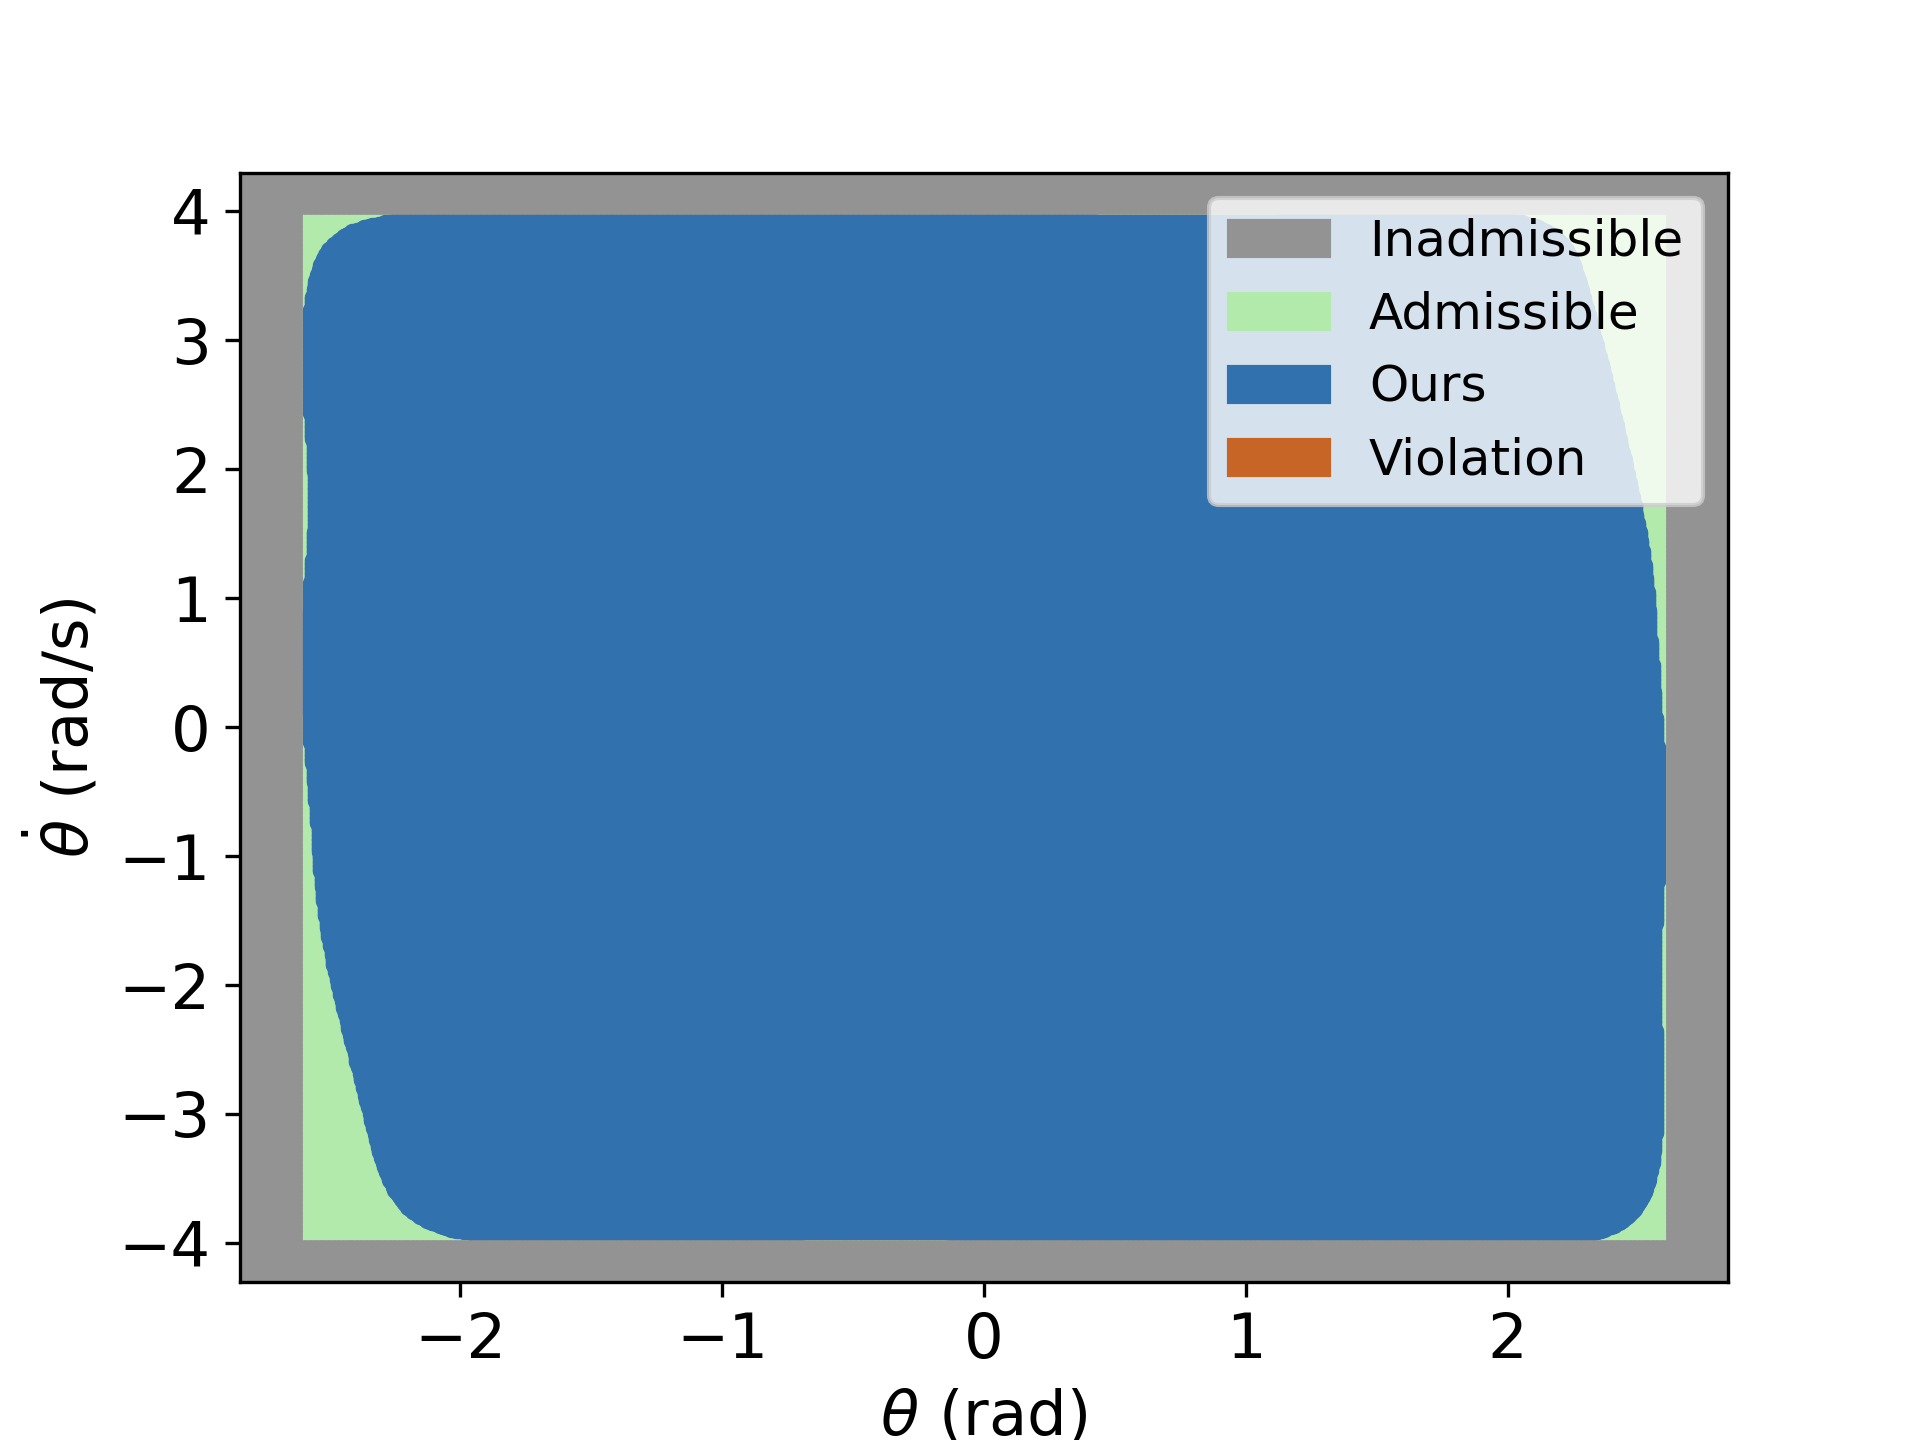
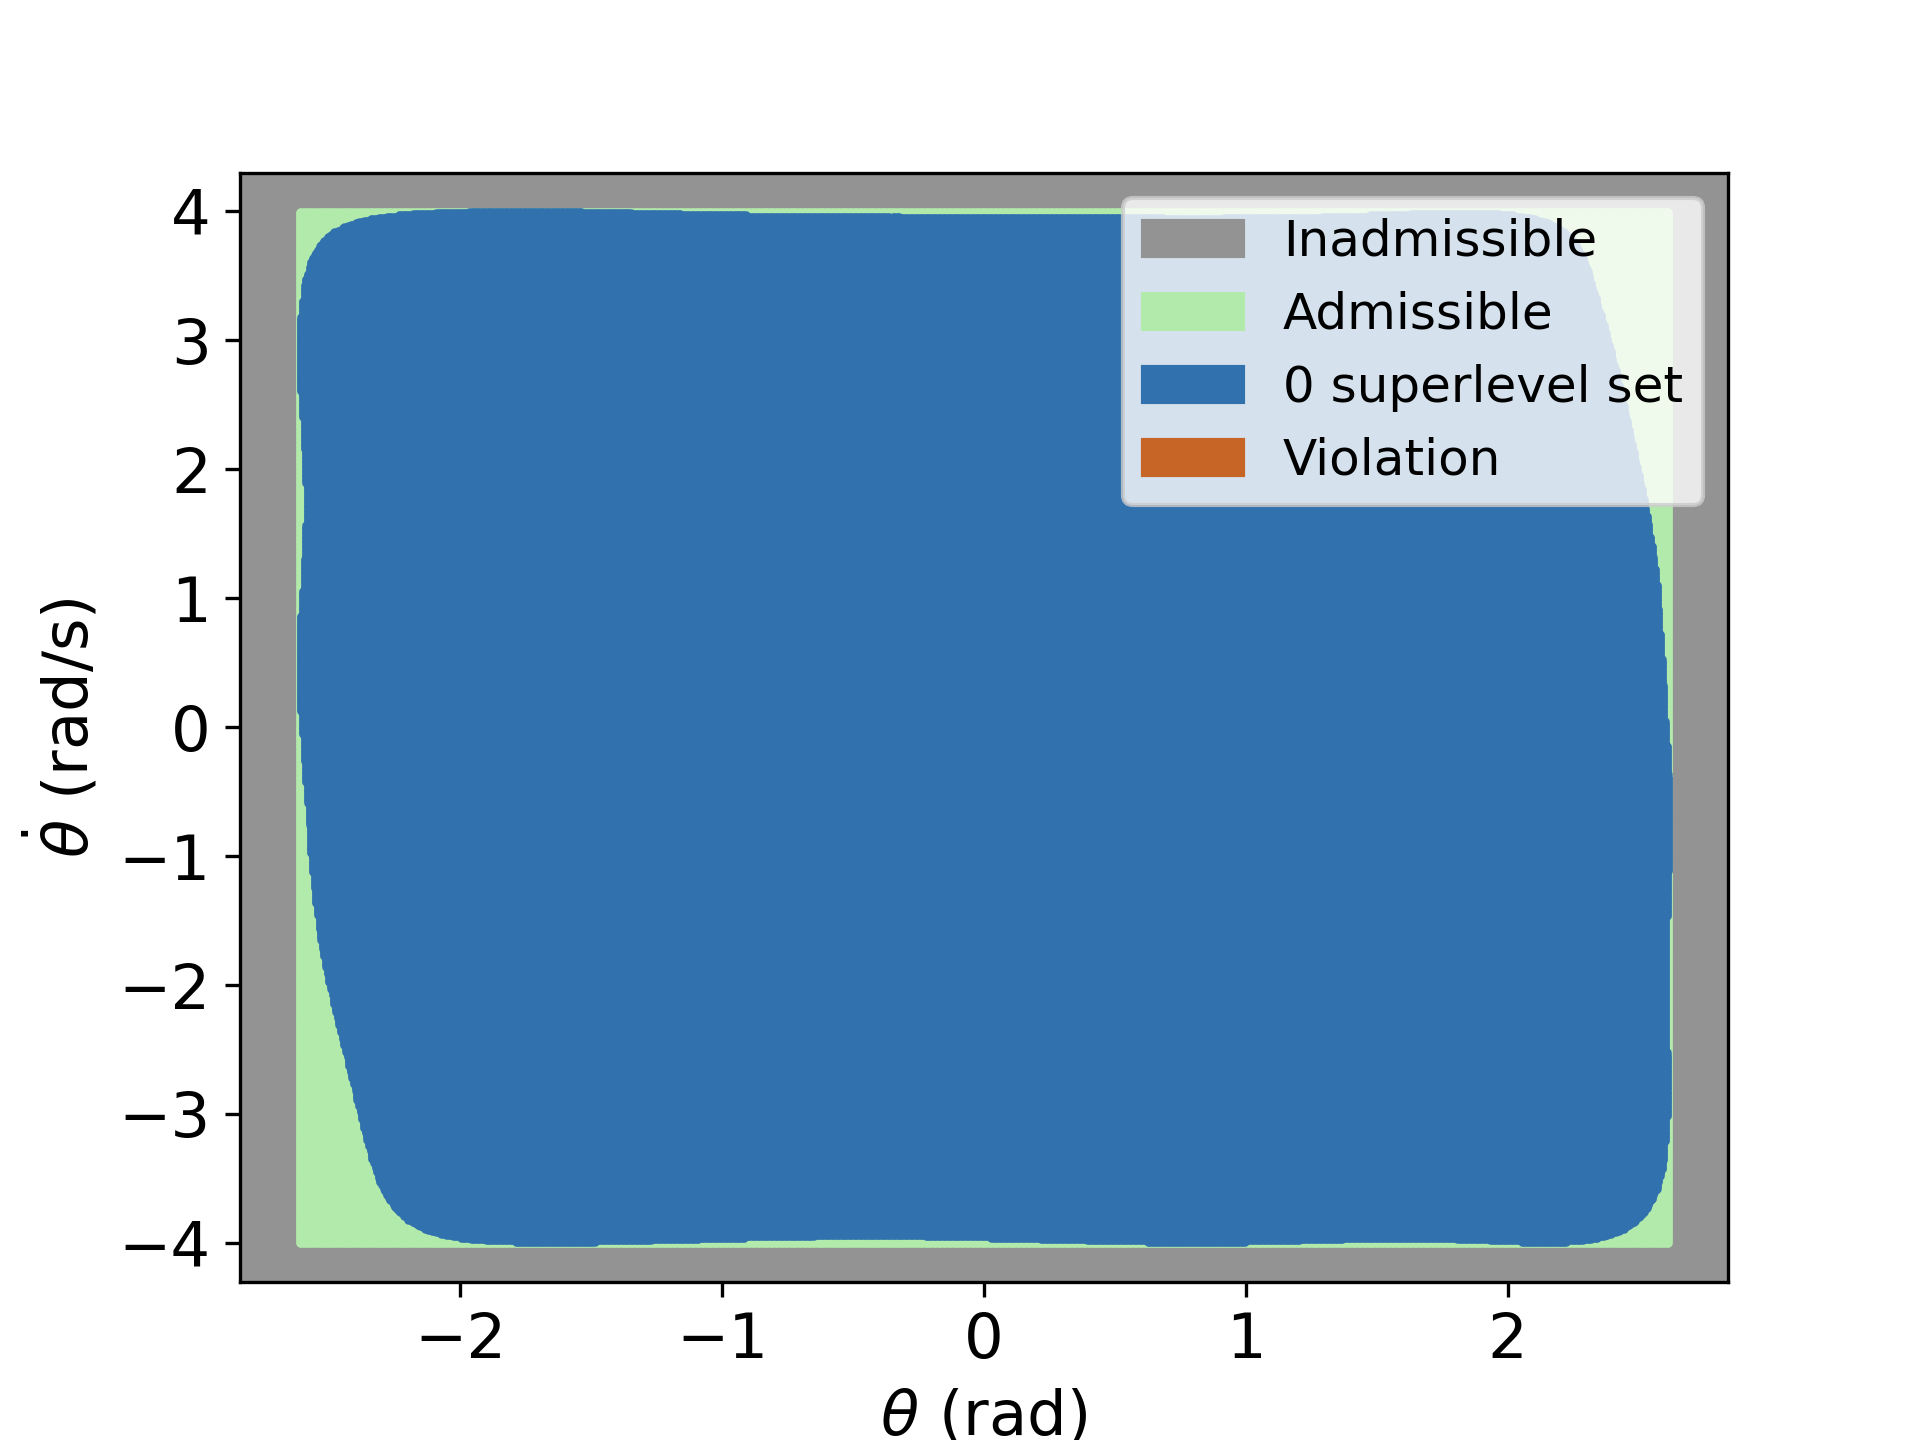
generate Figs for submittion

diff --git a/safe_rl_cbf/NeuralCBF/train_model.py b/safe_rl_cbf/NeuralCBF/train_model.py
@@ -23,11 +23,11 @@ def extract_number(f):
 
 ########################### hyperparameters #############################
 
-train_mode = 0
+train_mode = 2
 system = point_robot
-default_root_dir = "logs/CBF_logs/test/"
-checkpoint_dir = "logs/CBF_logs/IP_2_1/lightning_logs/version_1/checkpoints/epoch=67-step=5576.ckpt"
-grid_gap = torch.Tensor([0.2, 0.2])  
+default_root_dir = "logs/CBF_logs/PR_2_Nov/"
+checkpoint_dir = "logs/CBF_logs/PR_2_Nov/lightning_logs/version_0/checkpoints/epoch=199-step=32600.ckpt"
+grid_gap = torch.Tensor([0.2, 0.2, 0.2, 0.2])  
 
 
 ########################## start training ###############################
@@ -38,7 +38,7 @@ print('Using {} device'.format(device))
 # checkpoint_callback = ModelCheckpoint(dirpath=default_root_dir, save_top_k=1, monitor="Total_loss/train")
 if train_mode==0:
 
-    data_module = TrainingDataModule(system=system, val_split=0, train_batch_size=1024, training_points_num=int(1e6), train_mode=train_mode)
+    data_module = TrainingDataModule(system=system, val_split=0, train_batch_size=1024, training_points_num=int(2e6), train_mode=train_mode)
 
     NN = NeuralNetwork(dynamic_system=system, data_module=data_module, train_mode=train_mode)
     # NN0 =  NeuralNetwork.load_from_checkpoint("logs/CBF_logs/dubins_car_acc/lightning_logs/version_1/checkpoints/epoch=86-step=14181.ckpt",dynamic_system=system, data_module=data_module, require_grad_descent_loss=True, primal_learning_rate=8e-4, fine_tune=fine_tune)
@@ -64,11 +64,11 @@ if train_mode==0:
 
 elif train_mode==1:
         
-    data_module = TrainingDataModule(system=system, val_split=0, train_batch_size=1024, training_points_num=int(1e6), train_mode=train_mode)
+    data_module = TrainingDataModule(system=system, val_split=0, train_batch_size=1024, training_points_num=int(1e5), train_mode=train_mode)
 
     # NN0 =  NeuralNetwork.load_from_checkpoint(checkpoint_dir,dynamic_system=system, data_module=data_module, train_mode=train_mode)
-    NN = NeuralNetwork.load_from_checkpoint(checkpoint_dir,dynamic_system=system, data_module=data_module, train_mode=train_mode, primal_learning_rate=5e-4)
-    # NN = NeuralNetwork(dynamic_system=system, data_module=data_module, train_mode=train_mode, primal_learning_rate=1e-3)
+    # NN = NeuralNetwork.load_from_checkpoint(checkpoint_dir,dynamic_system=system, data_module=data_module, train_mode=train_mode, primal_learning_rate=5e-4)
+    NN = NeuralNetwork(dynamic_system=system, data_module=data_module, train_mode=train_mode, primal_learning_rate=1e-3)
 
     # NN.set_previous_cbf(NN0.h)
 
@@ -89,7 +89,7 @@ elif train_mode==1:
     
 elif train_mode==2:
      
-    data_module = TrainingDataModule(system=system, val_split=0, train_batch_size=1024, training_points_num=int(1e5), train_mode=1, training_grid_gap=None)
+    data_module = TrainingDataModule(system=system, val_split=0, train_batch_size=256, training_points_num=int(1e6), train_mode=1, training_grid_gap=None)
 
     # NN0 =  NeuralNetwork.load_from_checkpoint(checkpoint_dir,dynamic_system=system, data_module=data_module, train_mode=1)
     NN = NeuralNetwork.load_from_checkpoint(checkpoint_dir,dynamic_system=system, data_module=data_module, train_mode=1, parimal_learning_rate=2e-5)
@@ -104,12 +104,12 @@ elif train_mode==2:
         # callbacks=[StochasticWeightAveraging(swa_lrs=1e-2)],
         default_root_dir=default_root_dir,
         reload_dataloaders_every_n_epochs=1000,
-        accumulate_grad_batches=12,
+        accumulate_grad_batches=24,
         # gradient_clip_val=0.5
         )
 
     torch.autograd.set_detect_anomaly(True)
-    # trainer.fit(NN)
+    trainer.fit(NN)
     
     current_learning_rate = NN.learning_rate
     del NN, trainer
@@ -171,7 +171,7 @@ elif train_mode==2:
         data_module.training_grid_gap = None
         data_module.augment_dataset()
         num_of_augment_data = data_module.augment_data.shape[0]
-        data_module.training_points_num = max( int(num_of_augment_data * 0.75), int(1e5) )
+        
 
         log_dir = default_root_dir + "/lightning_logs"
         version_list = os.listdir(log_dir)
@@ -193,7 +193,7 @@ elif train_mode==2:
             # callbacks=[StochasticWeightAveraging(swa_lrs=1e-2)],
             default_root_dir=default_root_dir,
             reload_dataloaders_every_n_epochs=1000,
-            accumulate_grad_batches=12,
+            accumulate_grad_batches=24,
             # gradient_clip_val=0.5
             )
 

diff --git a/safe_rl_cbf/Analysis/prove_continuous_satisfaction.py b/safe_rl_cbf/Analysis/prove_continuous_satisfaction.py
@@ -148,8 +148,7 @@ plt.scatter(X_inadmissible_area, Y_inadmissible_area, s=1, c='#939393')
 
 X_admissible_area = admissible_area_state_ncbf[:, x_index].detach().cpu().numpy()
 Y_admissible_area = admissible_area_state_ncbf[:, y_index].detach().cpu().numpy()
-plt.scatter(X_admissible_area, Y_admissible_area, s=1, c='#B2EAAB')
-
+plt.scatter(X_admissible_area, Y_admissible_area, s=1.2, c='#B2EAAB')
 
 plt.scatter(x_ncbf_1, y_ncbf_1, s=10, c='#3171AD')
 plt.scatter(X_descent_ncbf_1, Y_descent_ncbf_1, s=10, c='#C66526')
@@ -173,7 +172,7 @@ legend_elements = [
                     Patch(facecolor='#B2EAAB', edgecolor='#B2EAAB',
                         label='Admissible'),
                     Patch(facecolor='#3171AD', edgecolor='#3171AD',
-                        label='Ours'),
+                        label='0 superlevel set'),
                     Patch(facecolor='#C66526', edgecolor='#C66526',
                     label='Violation')
                 ]
@@ -203,13 +202,13 @@ plt.scatter(X_admissible_area, Y_admissible_area, s=1, c='#B2EAAB')
 # contours = plt.contourf(hVS_XData, hVS_YData, hVS_ZData, levels=[-0.1, 0, 1], colors=['w','#a7f790','w'], extend='both')
 
 
-plt.scatter(x_ncbf, y_ncbf, s=10, c='#3171AD')
+plt.scatter(x_ncbf, y_ncbf, s=1, c='#3171AD')
 # plt.scatter(X_descent_ncbf, Y_descent_ncbf, s=10, c='#C66526')
 
 
 X = inadmissible_boundary_state_ncbf[:, x_index].detach().cpu().numpy()
 Y = inadmissible_boundary_state_ncbf[:, y_index].detach().cpu().numpy()
-plt.scatter(X, Y, s=1, c='#939393')
+# plt.scatter(X, Y, s=1, c='#939393')
 
 plt.xlabel(r"$\theta$ (rad)", fontsize="15")
 plt.ylabel(r"$\dot{\theta}$ (rad/s)", fontsize="15")
@@ -227,7 +226,7 @@ legend_elements = [
                     Patch(facecolor='#B2EAAB', edgecolor='#B2EAAB',
                         label='Admissible'),
                     Patch(facecolor='#3171AD', edgecolor='#3171AD',
-                        label='Ours'),
+                        label='0 superlevel set'),
                     Patch(facecolor='#C66526', edgecolor='#C66526',
                     label='Violation')
                 ]
@@ -246,7 +245,7 @@ plt.figure()
 
 X_admissible_area = admissible_area_state_ncbf[:, x_index].detach().cpu().numpy()
 Y_admissible_area = admissible_area_state_ncbf[:, y_index].detach().cpu().numpy()
-plt.scatter(X_admissible_area, Y_admissible_area, s=1, c='#B2EAAB')
+plt.scatter(X_admissible_area, Y_admissible_area, s=1.2, c='#B2EAAB')
 
 
 
@@ -286,7 +285,7 @@ legend_elements = [
                     Patch(facecolor='#B2EAAB', edgecolor='#B2EAAB',
                         label='Admissible'),
                     Patch(facecolor='#3171AD', edgecolor='#3171AD',
-                        label='Ours'),
+                        label='0 superlevel set'),
                     Line2D([], [], color='#000000', marker='.', linestyle='None',
                           markersize=5, label='Counterexamples')
                 ]

diff --git a/safe_rl_cbf/Dataset/TrainingDataModule.py b/safe_rl_cbf/Dataset/TrainingDataModule.py
@@ -10,6 +10,7 @@ from treelib import Tree, Node
 import matplotlib.pyplot as plt
 # from dreal import *
 import timeit 
+import math
 # from safe_rl_cbf.NeuralLC.Functions import *
 
 class TrainingDataModule(pl.LightningDataModule):
@@ -34,7 +35,7 @@ class TrainingDataModule(pl.LightningDataModule):
         self.minimum_grid_gap = 0.05
         self.verified = -1
         self.augment_data = torch.zeros(1, self.system.ns)
-        self.maximum_augment_data_num = int(5e6)
+        self.maximum_augment_data_num = int(7e6)
        
         self.model = None
         self.SMT_verification_time = 0
@@ -283,9 +284,17 @@ class TrainingDataModule(pl.LightningDataModule):
         if self.train_mode == 1:
             domain_lower_bd, domain_upper_bd = self.system.domain_limits
             domain_bd_gap = domain_upper_bd - domain_lower_bd
+            
+            if self.augment_data.shape[0] < 1e5:
+                self.augment_data = self.augment_data.repeat(math.ceil(1e5/0.75/self.augment_data.shape[0]), 1)
 
+          
+
+            self.training_points_num = max( int(self.augment_data.shape[0] * 0.75), int(1e5) )
+            
             s = torch.rand(self.training_points_num, self.system.ns) * domain_bd_gap + domain_lower_bd
-           
+
+            
             if self.augment_data.shape[0] > self.maximum_augment_data_num:
                 self.augment_data = self.augment_data[-self.maximum_augment_data_num:]
 
@@ -313,7 +322,7 @@ class TrainingDataModule(pl.LightningDataModule):
             if reach_minimum_gap:
                 print("all hyperrectangles reach the minimum grid gap")
                 self.verified = 0
-                self.minimum_grid_gap = max(self.minimum_grid_gap * 0.8, 0.005)
+                self.minimum_grid_gap = max(self.minimum_grid_gap * 0.8, 0.03)
                 print("minimum grid gap is updated to be ", self.minimum_grid_gap)
             
             if test_flag:

diff --git a/safe_rl_cbf/NeuralCBF/test.py b/safe_rl_cbf/NeuralCBF/test.py
@@ -17,7 +17,7 @@ print(f"Using {device} device")
 
 ########################### hyperparameters #############################
 
-train_mode = 2
+train_mode = 1
 system = inverted_pendulum_1
 default_root_dir = "./logs/CBF_logs/inverted_pendulum_1"
 checkpoint_dir = "logs/CBF_logs/inverted_pendulum_1/lightning_logs/version_8/checkpoints/epoch=199-step=2436.ckpt"
@@ -26,14 +26,14 @@ grid_gap = torch.Tensor([0.2, 0.2])
 
 ########################################################
 
-data_module = TrainingDataModule(system=system, val_split=0, train_batch_size=3, training_points_num=int(1e6), training_grid_gap=grid_gap, train_mode=train_mode)
+data_module = TrainingDataModule(system=system, val_split=0, train_batch_size=1024, training_points_num=int(1e6), train_mode=train_mode)
 data_module.prepare_data()
 data_module.set_dataset()
 
-NN = NeuralNetwork.load_from_checkpoint(checkpoint_dir, dynamic_system=system, data_module=data_module, train_mode=train_mode)
-NN0 = NeuralNetwork.load_from_checkpoint(checkpoint_dir, dynamic_system=system, data_module=data_module, train_mode=train_mode)
-# NN = NeuralNetwork(dynamic_system=inverted_pendulum_1, data_module=data_module, require_grad_descent_loss=True, fine_tune=False)
-NN.set_previous_cbf(NN0.h)
+# NN = NeuralNetwork.load_from_checkpoint(checkpoint_dir, dynamic_system=system, data_module=data_module, train_mode=train_mode)
+# NN0 = NeuralNetwork.load_from_checkpoint(checkpoint_dir, dynamic_system=system, data_module=data_module, train_mode=train_mode)
+NN = NeuralNetwork(dynamic_system=inverted_pendulum_1, data_module=data_module, train_mode=train_mode)
+# NN.set_previous_cbf(NN0.h)
 
 batch = next(iter(NN.data_module.train_dataloader()))
 

diff --git a/safe_rl_cbf/Analysis/prove_optimality.py b/safe_rl_cbf/Analysis/prove_optimality.py
@@ -157,8 +157,8 @@ plt.scatter(LST_x, LST_y, s=1, c='#F0B2E1')
 # contours2 = plt.contour(hVS0_XData, hVS0_YData, hVS0_ZData, levels=[0], colors='grey', linewidth=5)
 
 
-plt.scatter(x_ncbf, y_ncbf, s=10, c='#3171AD')
-plt.scatter(x_neural_clbf, y_neural_clbf, s=10, c='#EAE159')
+plt.scatter(x_ncbf, y_ncbf, s=1, c='#3171AD')
+plt.scatter(x_neural_clbf, y_neural_clbf, s=1, c='#EAE159')
 
 X = inadmissible_boundary_state_ncbf[:, x_index].detach().cpu().numpy()
 Y = inadmissible_boundary_state_ncbf[:, y_index].detach().cpu().numpy()
